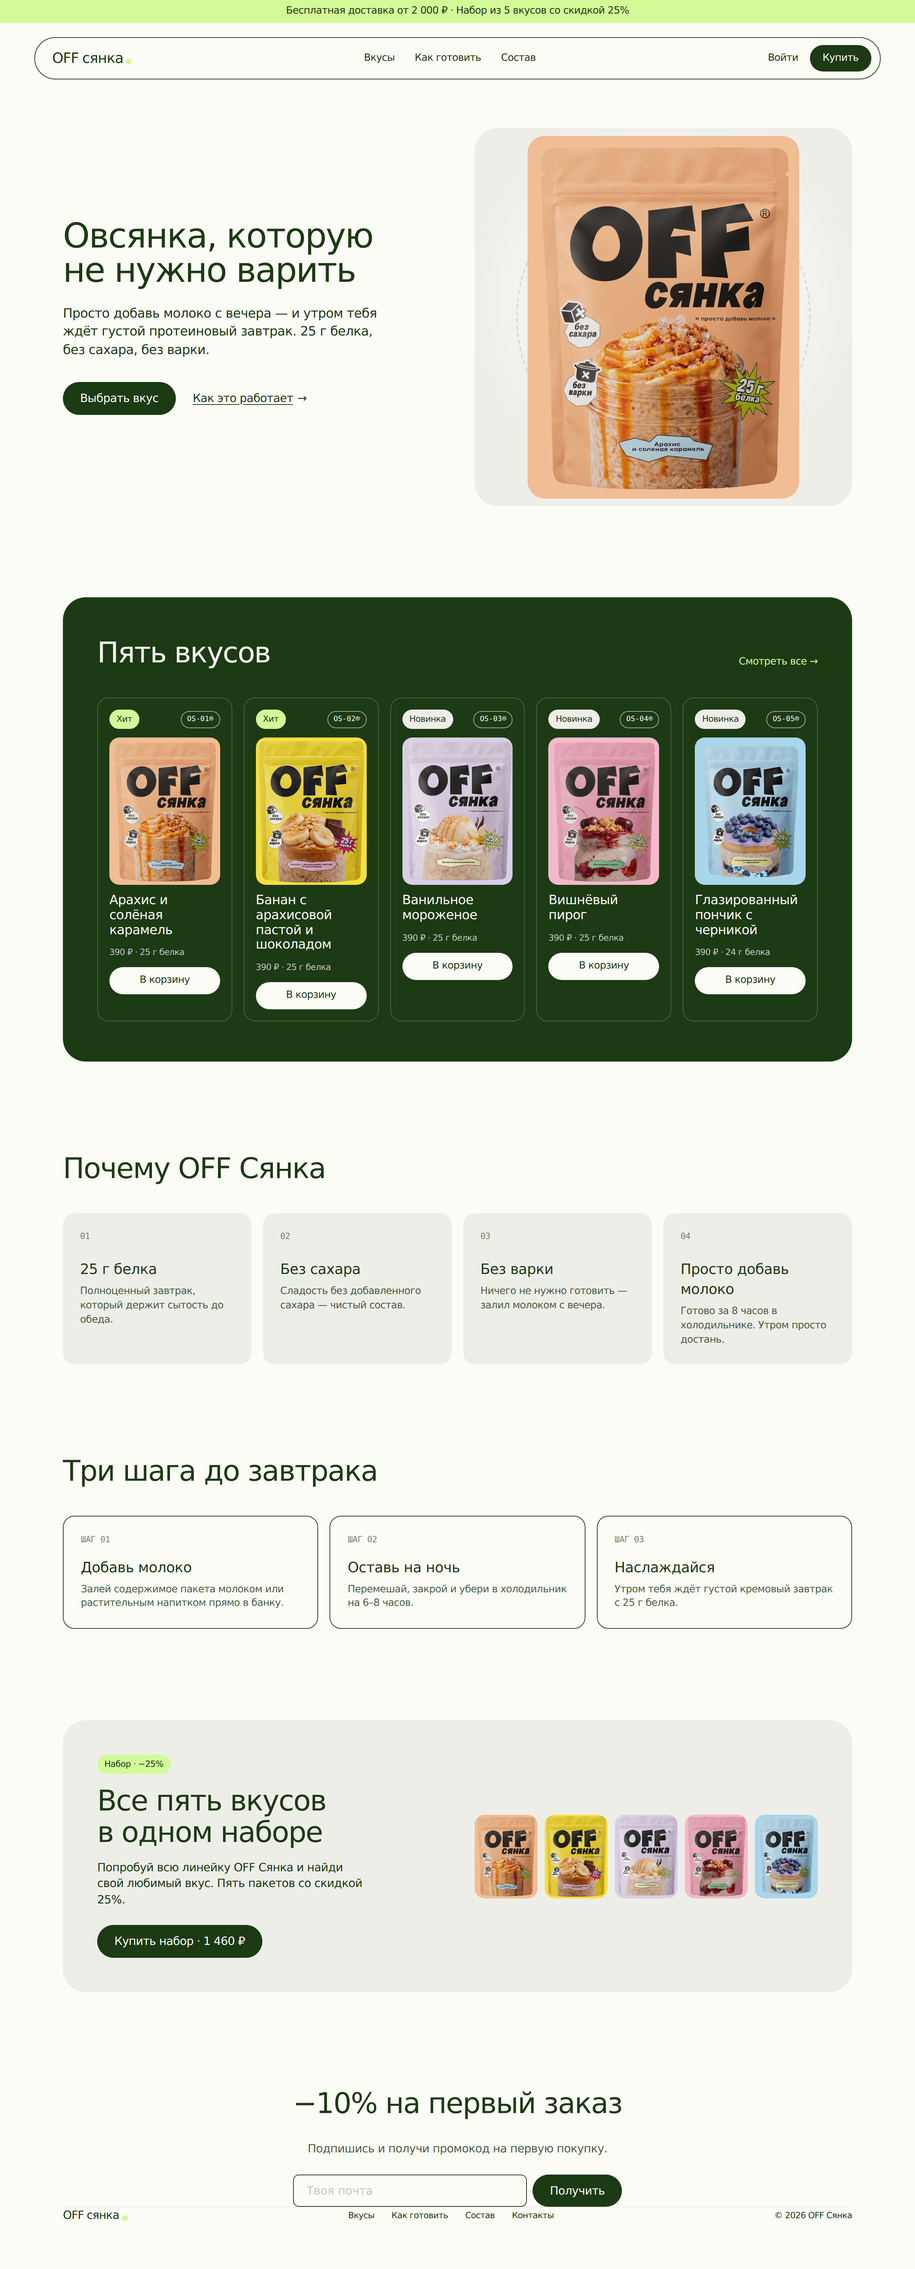
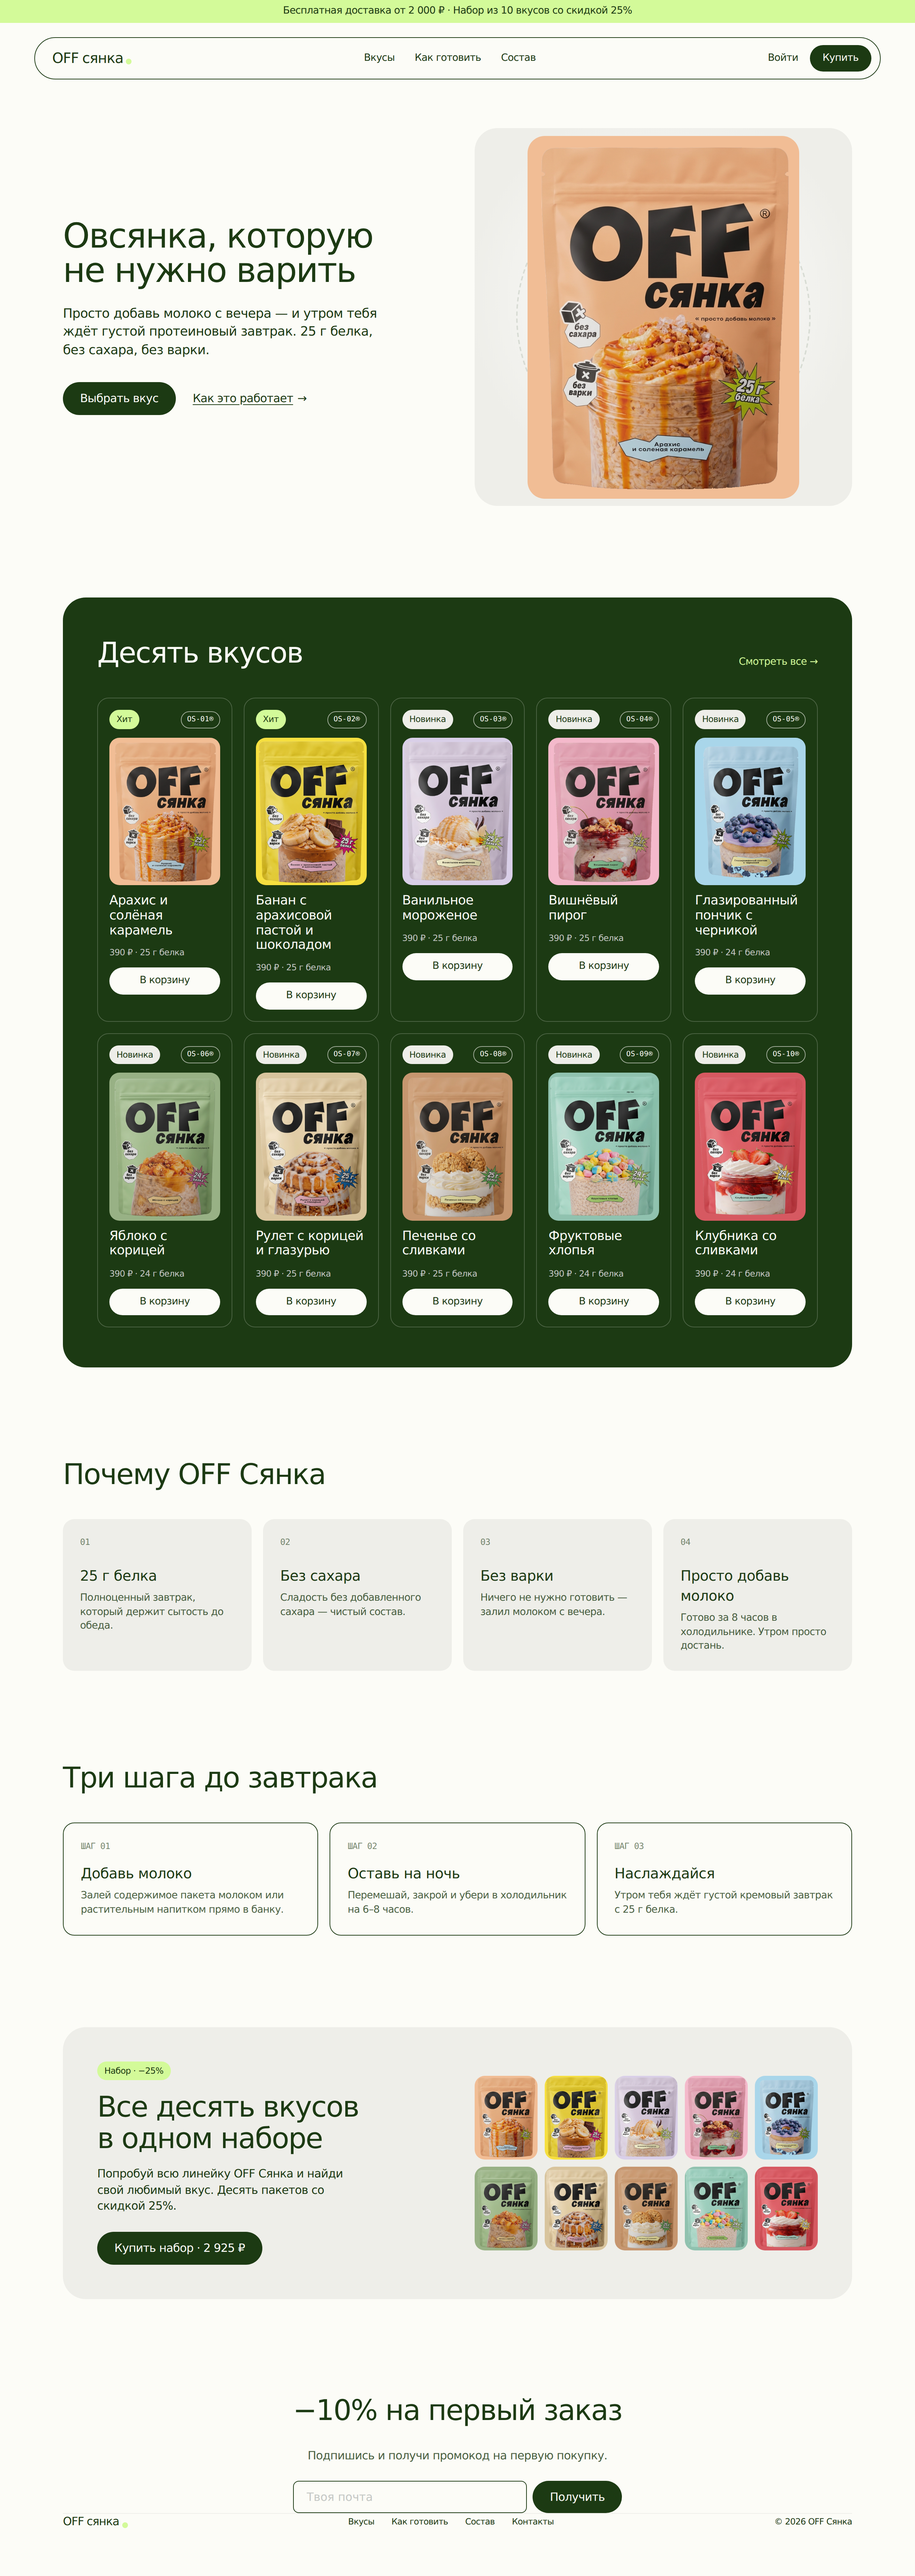
Add 5 more flavors (OS-06..OS-10); 10-product grid
Apple/cinnamon/cookie/fruit/strawberry: bg removed, cards + bundle strip,
updated headings, bundle copy and price for 10 flavors.

Claude-Session: https://claude.ai/code/session_01N7DBgPYybbt2QzdCkf3pMH

diff --git a/index.html b/index.html
@@ -30,6 +30,11 @@
   --c-vanilla:#d9cfe8;
   --c-cherry:#f4b9cb;
   --c-blueberry:#a9d6ea;
+  --c-apple:#98b185;
+  --c-cinnamon:#d8c49d;
+  --c-cookie:#c6966f;
+  --c-fruit:#90c2af;
+  --c-strawberry:#d65961;
 }
 
 *{box-sizing:border-box;margin:0;padding:0;}
@@ -234,7 +239,7 @@ footer a{color:var(--color-forest-canopy);text-decoration:none;}
 </head>
 <body>
 
-<div class="announce">Бесплатная доставка от 2 000 ₽ · Набор из 5 вкусов со скидкой 25%</div>
+<div class="announce">Бесплатная доставка от 2 000 ₽ · Набор из 10 вкусов со скидкой 25%</div>
 
 <div class="nav-outer">
   <nav class="nav">
@@ -276,7 +281,7 @@ footer a{color:var(--color-forest-canopy);text-decoration:none;}
   <section class="section">
     <div class="dark">
       <div class="sec-head">
-        <h2>Пять вкусов</h2>
+        <h2>Десять вкусов</h2>
         <a href="#" class="shoplink">Смотреть все →</a>
       </div>
       <div class="grid">
@@ -336,6 +341,61 @@ footer a{color:var(--color-forest-canopy);text-decoration:none;}
           <a href="#" class="btn btn-white">В корзину</a>
         </div>
 
+        <!-- 6 apple -->
+        <div class="tile">
+          <div class="top"><span class="badge stone">Новинка</span><span class="code">OS-06®</span></div>
+          <div class="product-img" style="--pouch:var(--c-apple)">
+            <img src="images/apple.png" alt="OFF Сянка — Яблоко с корицей" onerror="this.style.display='none'">
+          </div>
+          <h3>Яблоко с корицей</h3>
+          <div class="price">390 ₽ · 24 г белка</div>
+          <a href="#" class="btn btn-white">В корзину</a>
+        </div>
+
+        <!-- 7 cinnamon -->
+        <div class="tile">
+          <div class="top"><span class="badge stone">Новинка</span><span class="code">OS-07®</span></div>
+          <div class="product-img" style="--pouch:var(--c-cinnamon)">
+            <img src="images/cinnamon.png" alt="OFF Сянка — Рулет с корицей и глазурью" onerror="this.style.display='none'">
+          </div>
+          <h3>Рулет с корицей и глазурью</h3>
+          <div class="price">390 ₽ · 25 г белка</div>
+          <a href="#" class="btn btn-white">В корзину</a>
+        </div>
+
+        <!-- 8 cookie -->
+        <div class="tile">
+          <div class="top"><span class="badge stone">Новинка</span><span class="code">OS-08®</span></div>
+          <div class="product-img" style="--pouch:var(--c-cookie)">
+            <img src="images/cookie.png" alt="OFF Сянка — Печенье со сливками" onerror="this.style.display='none'">
+          </div>
+          <h3>Печенье со сливками</h3>
+          <div class="price">390 ₽ · 25 г белка</div>
+          <a href="#" class="btn btn-white">В корзину</a>
+        </div>
+
+        <!-- 9 fruit -->
+        <div class="tile">
+          <div class="top"><span class="badge stone">Новинка</span><span class="code">OS-09®</span></div>
+          <div class="product-img" style="--pouch:var(--c-fruit)">
+            <img src="images/fruit.png" alt="OFF Сянка — Фруктовые хлопья" onerror="this.style.display='none'">
+          </div>
+          <h3>Фруктовые хлопья</h3>
+          <div class="price">390 ₽ · 24 г белка</div>
+          <a href="#" class="btn btn-white">В корзину</a>
+        </div>
+
+        <!-- 10 strawberry -->
+        <div class="tile">
+          <div class="top"><span class="badge stone">Новинка</span><span class="code">OS-10®</span></div>
+          <div class="product-img" style="--pouch:var(--c-strawberry)">
+            <img src="images/strawberry.png" alt="OFF Сянка — Клубника со сливками" onerror="this.style.display='none'">
+          </div>
+          <h3>Клубника со сливками</h3>
+          <div class="price">390 ₽ · 24 г белка</div>
+          <a href="#" class="btn btn-white">В корзину</a>
+        </div>
+
       </div>
     </div>
   </section>
@@ -372,9 +432,9 @@ footer a{color:var(--color-forest-canopy);text-decoration:none;}
     <div class="bundle">
       <div>
         <span class="badge">Набор · −25%</span>
-        <h2>Все пять вкусов<br>в одном наборе</h2>
-        <p>Попробуй всю линейку OFF Сянка и найди свой любимый вкус. Пять пакетов со скидкой 25%.</p>
-        <a href="#" class="btn btn-fill btn-lg">Купить набор · 1 460 ₽</a>
+        <h2>Все десять вкусов<br>в одном наборе</h2>
+        <p>Попробуй всю линейку OFF Сянка и найди свой любимый вкус. Десять пакетов со скидкой 25%.</p>
+        <a href="#" class="btn btn-fill btn-lg">Купить набор · 2 925 ₽</a>
       </div>
       <div class="bundle-photos">
         <div class="product-img" style="--pouch:var(--c-caramel)"><img src="images/caramel.png" alt="Карамель" onerror="this.style.display='none'"></div>
@@ -382,6 +442,11 @@ footer a{color:var(--color-forest-canopy);text-decoration:none;}
         <div class="product-img" style="--pouch:var(--c-vanilla)"><img src="images/vanilla.png" alt="Ваниль" onerror="this.style.display='none'"></div>
         <div class="product-img" style="--pouch:var(--c-cherry)"><img src="images/cherry.png" alt="Вишня" onerror="this.style.display='none'"></div>
         <div class="product-img" style="--pouch:var(--c-blueberry)"><img src="images/blueberry.png" alt="Черника" onerror="this.style.display='none'"></div>
+        <div class="product-img" style="--pouch:var(--c-apple)"><img src="images/apple.png" alt="Яблоко с корицей" onerror="this.style.display='none'"></div>
+        <div class="product-img" style="--pouch:var(--c-cinnamon)"><img src="images/cinnamon.png" alt="Рулет с корицей" onerror="this.style.display='none'"></div>
+        <div class="product-img" style="--pouch:var(--c-cookie)"><img src="images/cookie.png" alt="Печенье со сливками" onerror="this.style.display='none'"></div>
+        <div class="product-img" style="--pouch:var(--c-fruit)"><img src="images/fruit.png" alt="Фруктовые хлопья" onerror="this.style.display='none'"></div>
+        <div class="product-img" style="--pouch:var(--c-strawberry)"><img src="images/strawberry.png" alt="Клубника со сливками" onerror="this.style.display='none'"></div>
       </div>
     </div>
   </section>

diff --git a/remove_bg.py b/remove_bg.py
@@ -9,7 +9,8 @@ import numpy as np
 from PIL import Image
 from scipy import ndimage
 
-NAMES = ["caramel", "banana", "vanilla", "cherry", "blueberry"]
+NAMES = ["caramel", "banana", "vanilla", "cherry", "blueberry",
+         "apple", "cinnamon", "cookie", "fruit", "strawberry"]
 T = 72          # max-channel brightness below this counts as "dark"
 ERODE = 1       # px to trim halo
 
